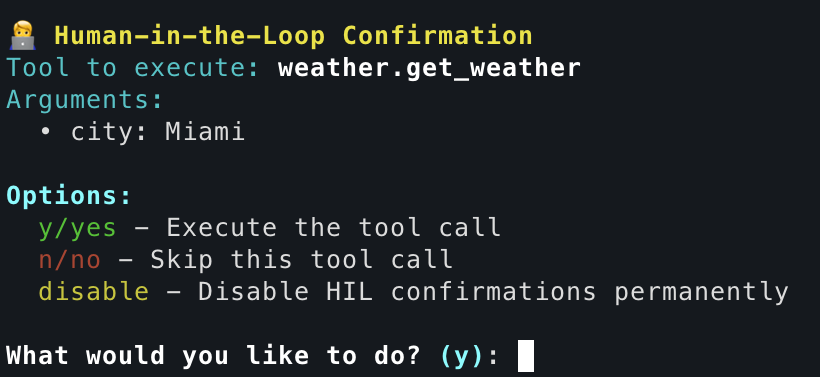
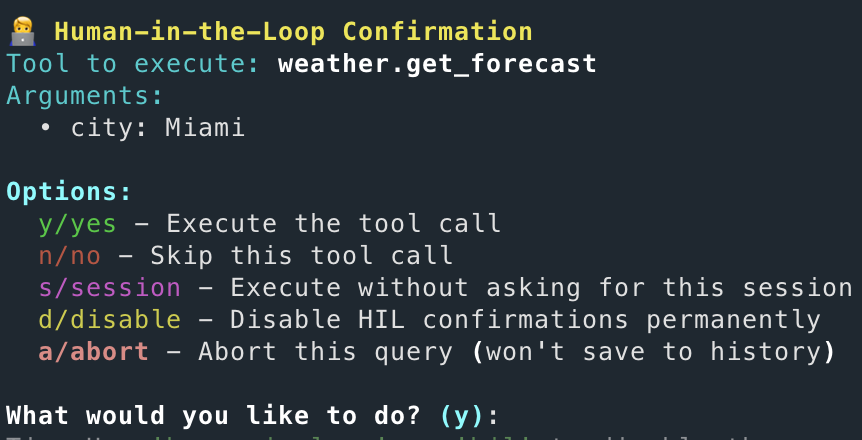
docs: updating README.md

diff --git a/README.md b/README.md
@@ -375,6 +375,8 @@ The Human-in-the-Loop feature provides an additional safety layer by allowing yo
 - 🔍 **Learning**: Understand what tools the model wants to use and why
 - 🎯 **Control**: Selective execution of only the tools you approve
 - 🚫 **Prevention**: Stop unwanted tool calls from executing
+- 🔄 **Session Mode**: Auto-approve all tools for the current query session
+- 🛑 **Query Abort**: Abort entire query without saving to history
 
 #### HIL Confirmation Display
 
@@ -384,6 +386,18 @@ When HIL is enabled, you'll see a confirmation prompt before each tool execution
 
 ![ollmcp HIL confirmation screenshot](https://github.com/jonigl/mcp-client-for-ollama/blob/main/misc/ollmcp-hil-feature.png?raw=true)
 
+#### HIL Confirmation Options
+
+When prompted, you can choose from the following options:
+
+- **y/yes**: Execute this specific tool call
+- **n/no**: Skip this tool call and continue with the query
+- **s/session**: Execute this and all subsequent tool calls for the current query without further prompts
+- **d/disable**: Permanently disable HIL confirmations (can be re-enabled with `hil` command)
+- **a/abort**: Abort the entire query immediately without saving to history
+
+> [!TIP]
+> The **session** option is particularly useful when the model needs to execute multiple tools in sequence. Instead of confirming each one individually, you can approve all tools for the current query session, then HIL will reset automatically for the next query.
 
 ### Human-in-the-Loop (HIL) Configuration
 
@@ -391,12 +405,16 @@ When HIL is enabled, you'll see a confirmation prompt before each tool execution
 - **Toggle Command**: Use `human-in-loop` or `hil` to toggle on/off
 - **Persistent Settings**: HIL preference is saved with your configuration
 - **Quick Disable**: Choose "disable" during any confirmation to turn off permanently
+- **Session Auto-Approve**: Use "session" during confirmation to approve all tools for current query
+- **Query Abort**: Use "abort" during confirmation to immediately stop the query without saving
 - **Re-enable**: Use the `hil` command anytime to turn confirmations back on
 
 **Benefits:**
 - **Enhanced Safety**: Prevent accidental or unwanted tool executions
 - **Awareness**: Understand what actions the model is attempting to perform
 - **Selective Control**: Choose which operations to allow on a case-by-case basis
+- **Flexible Workflow**: Session mode for efficient multi-tool queries, individual approval for sensitive operations
+- **Clean Abort**: Stop problematic queries immediately without polluting conversation history
 - **Peace of Mind**: Full visibility and control over automated actions
 
 ### Performance Metrics
